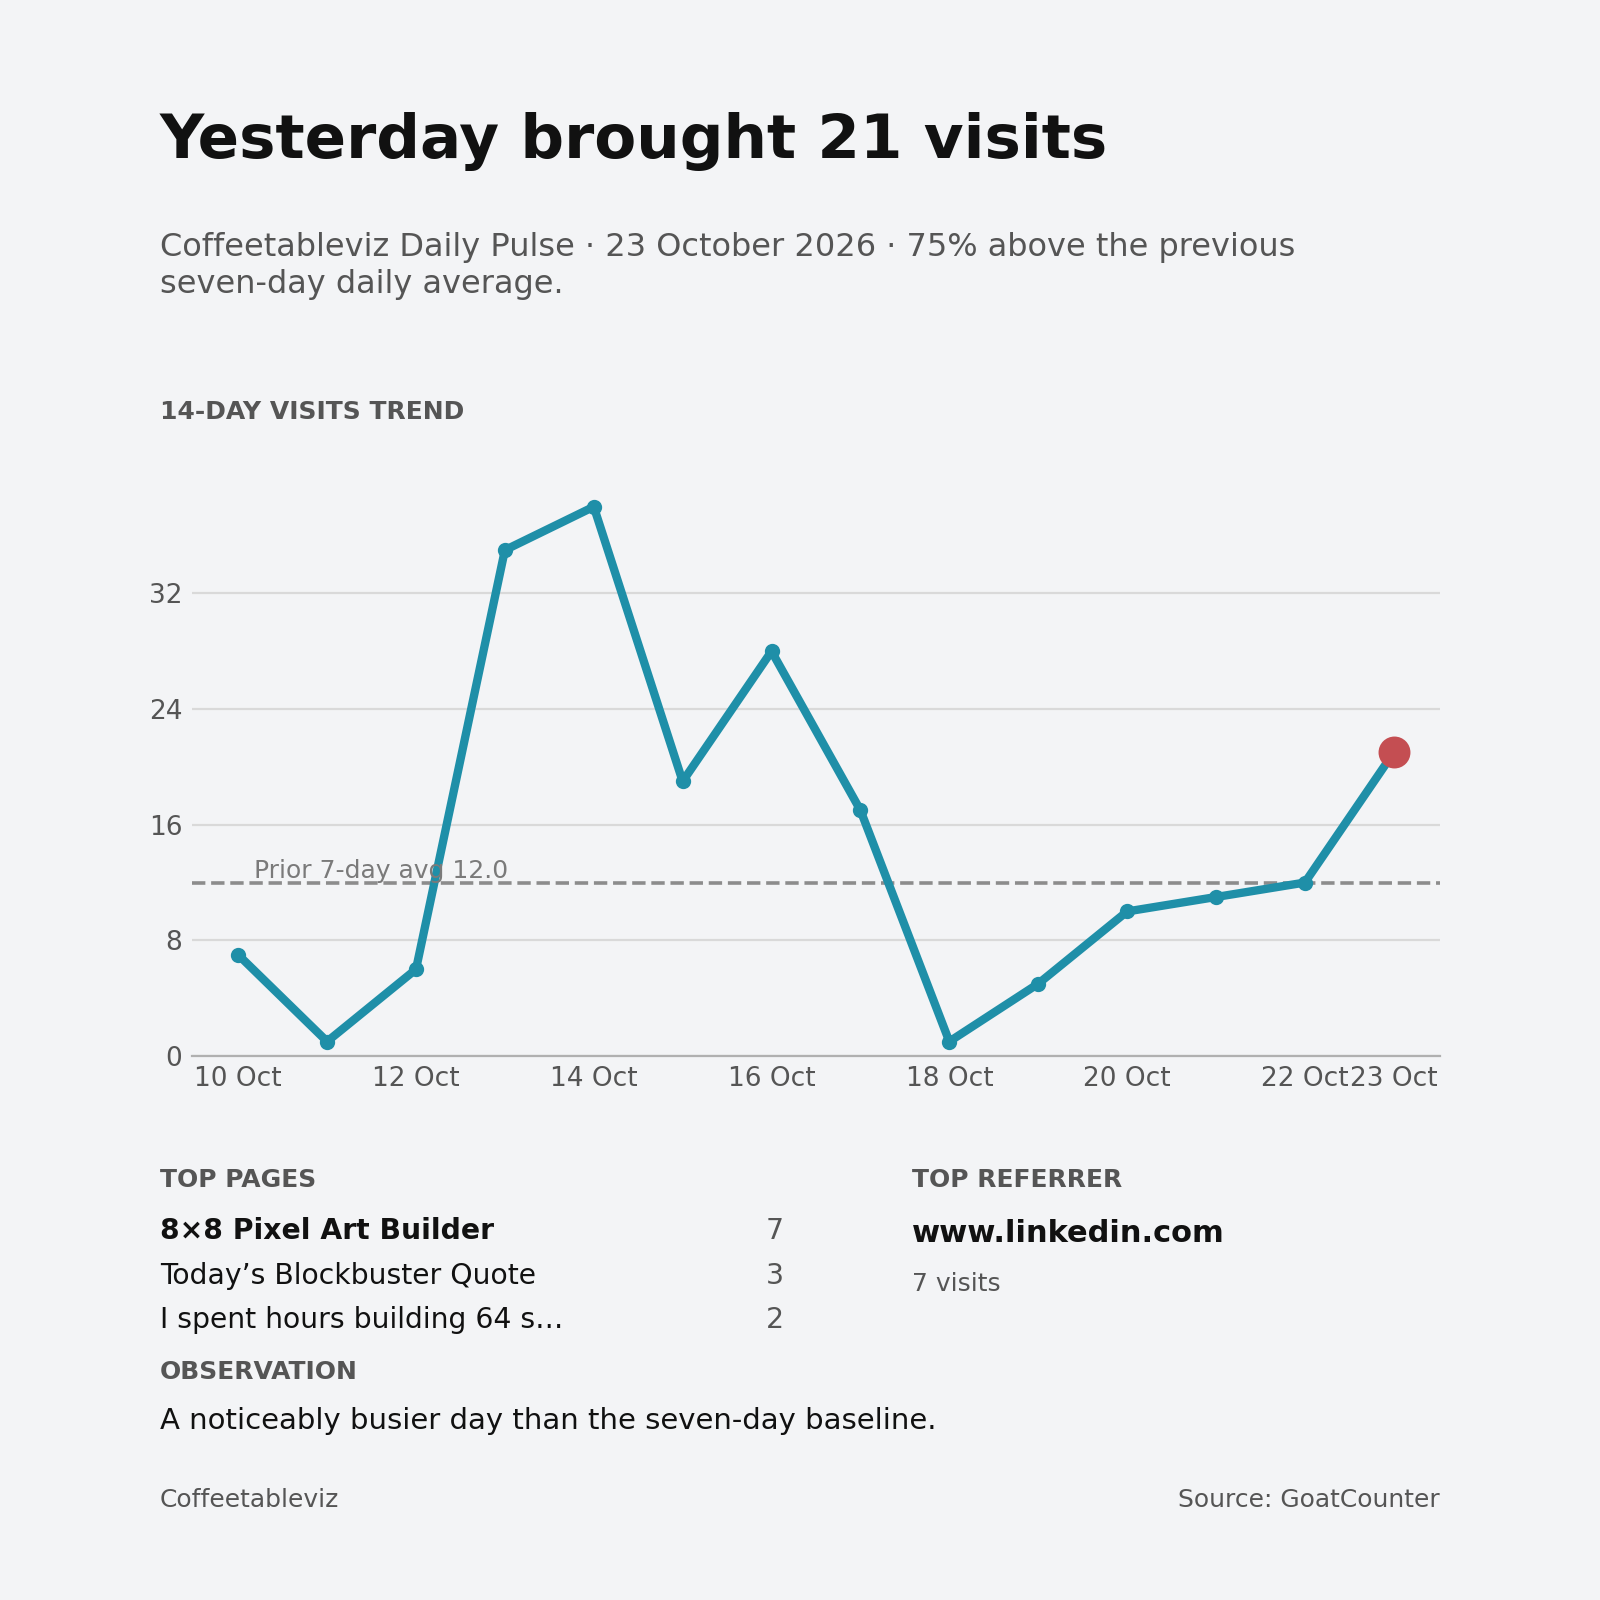
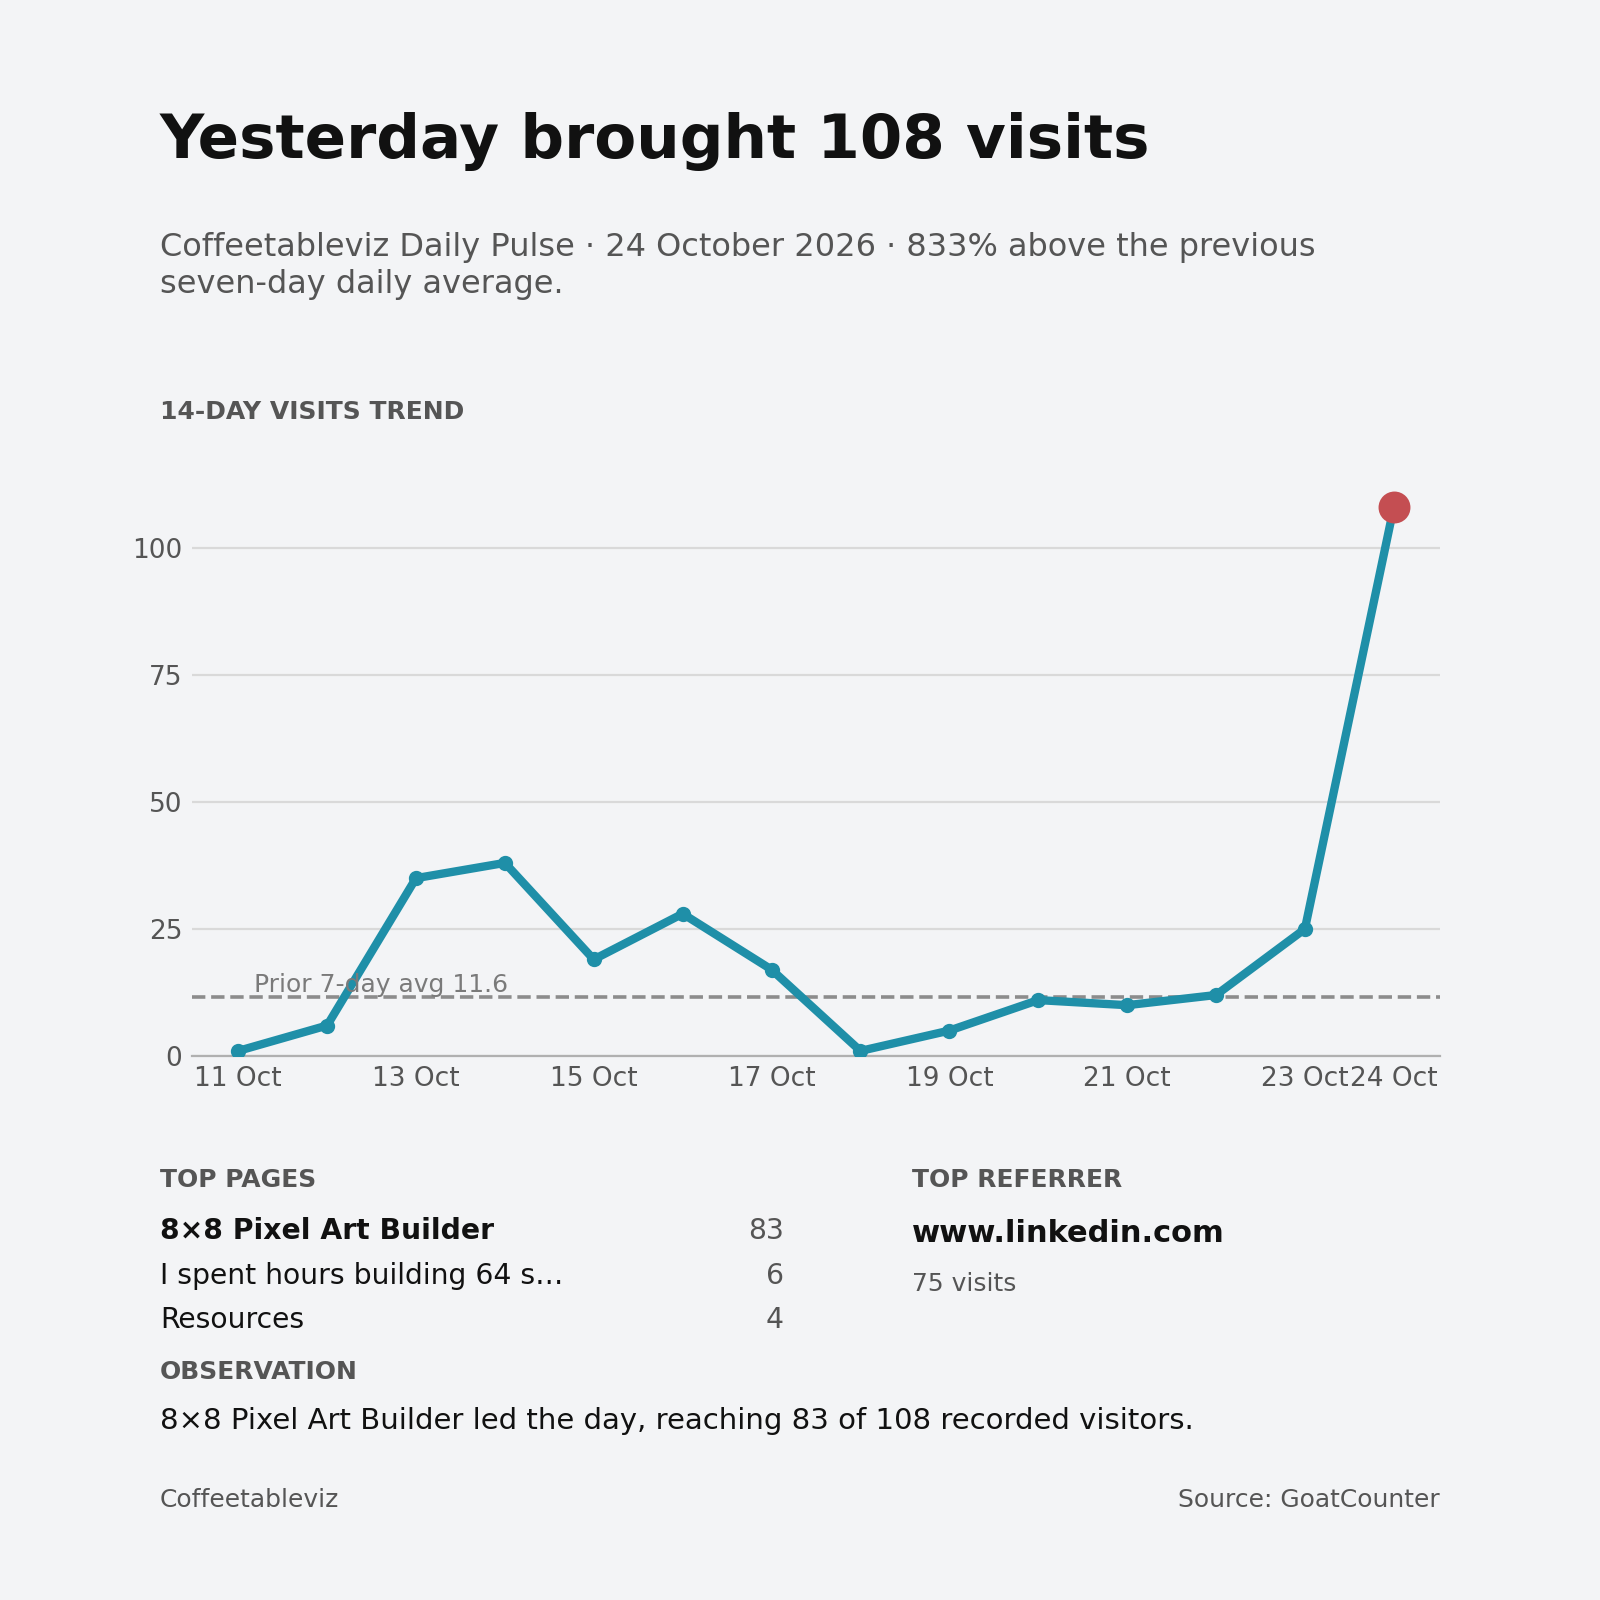
Update Daily Pulse for 2026-10-24

diff --git a/output/daily_site_pulse_summary.md b/output/daily_site_pulse_summary.md
@@ -1,9 +1,9 @@
-# Coffeetableviz Daily Pulse — 23 October 2026
+# Coffeetableviz Daily Pulse — 24 October 2026
 
-- **Visits:** 21
-- **7-day context:** 75% above prior 7-day daily average (12.0)
-- **Top pages:** 8×8 Pixel Art Builder (7), Today’s Blockbuster Quote (3), I spent hours building 64 squares. AI rebuilt them in minutes. (2)
-- **Top referrer:** www.linkedin.com — 7 visits
-- **Observation:** A noticeably busier day than the seven-day baseline.
+- **Visits:** 108
+- **7-day context:** 833% above prior 7-day daily average (11.6)
+- **Top pages:** 8×8 Pixel Art Builder (83), I spent hours building 64 squares. AI rebuilt them in minutes. (6), Resources (4)
+- **Top referrer:** www.linkedin.com — 75 visits
+- **Observation:** 8×8 Pixel Art Builder led the day, reaching 83 of 108 recorded visitors.
 
 Latest image: `output/daily_site_pulse.png`
